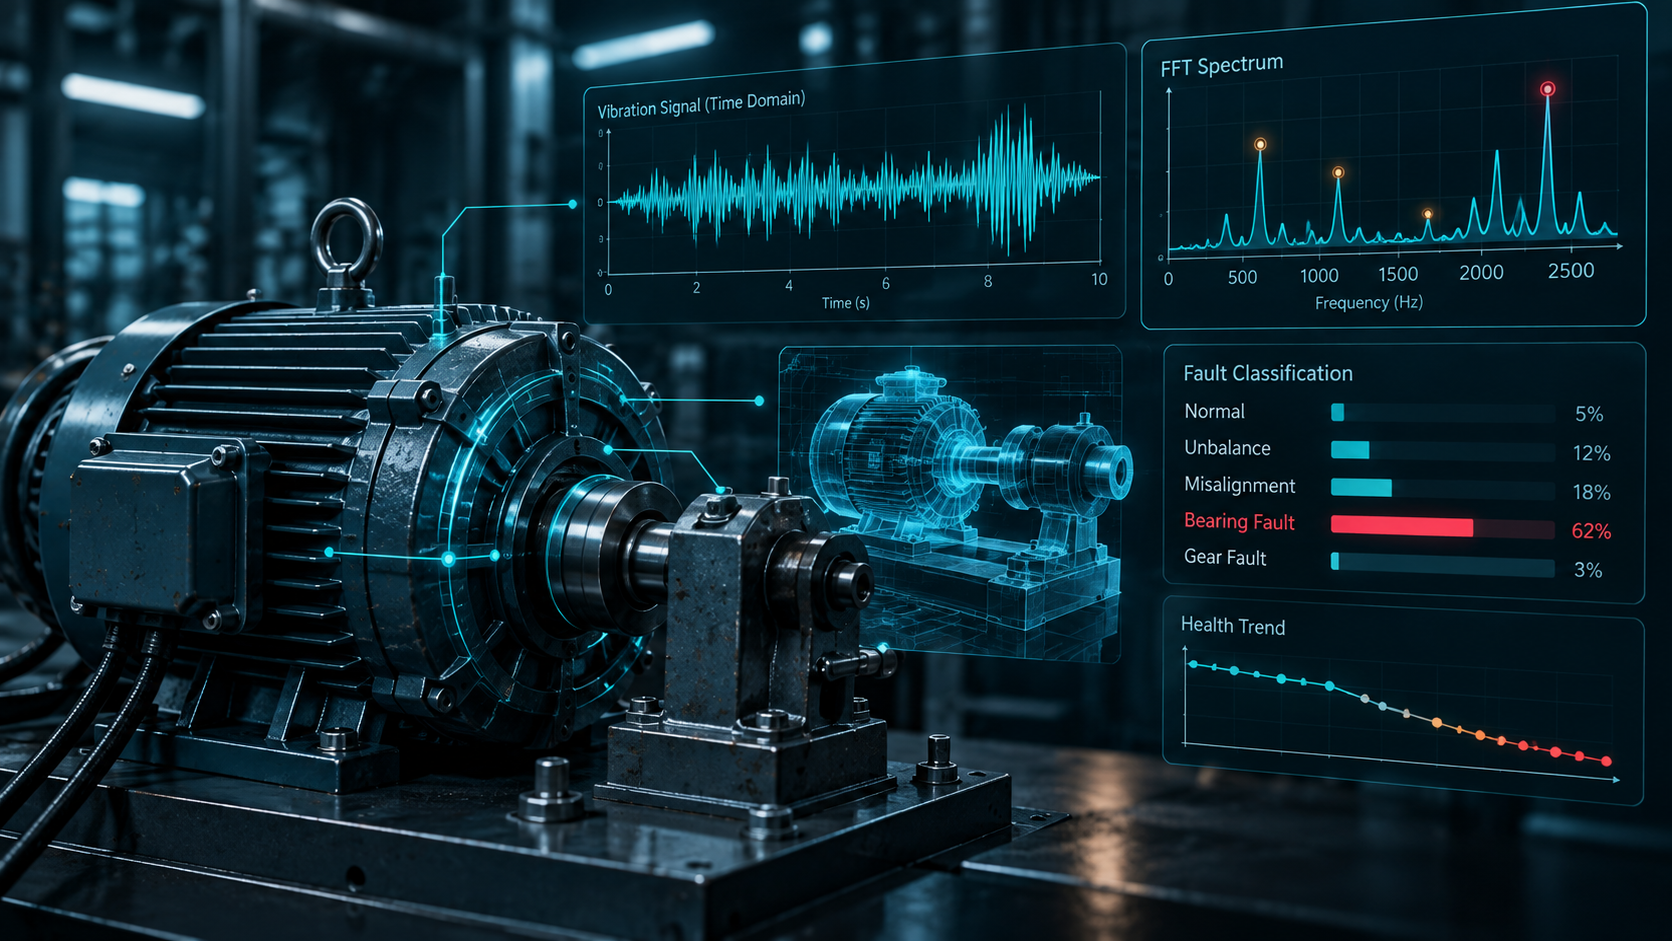
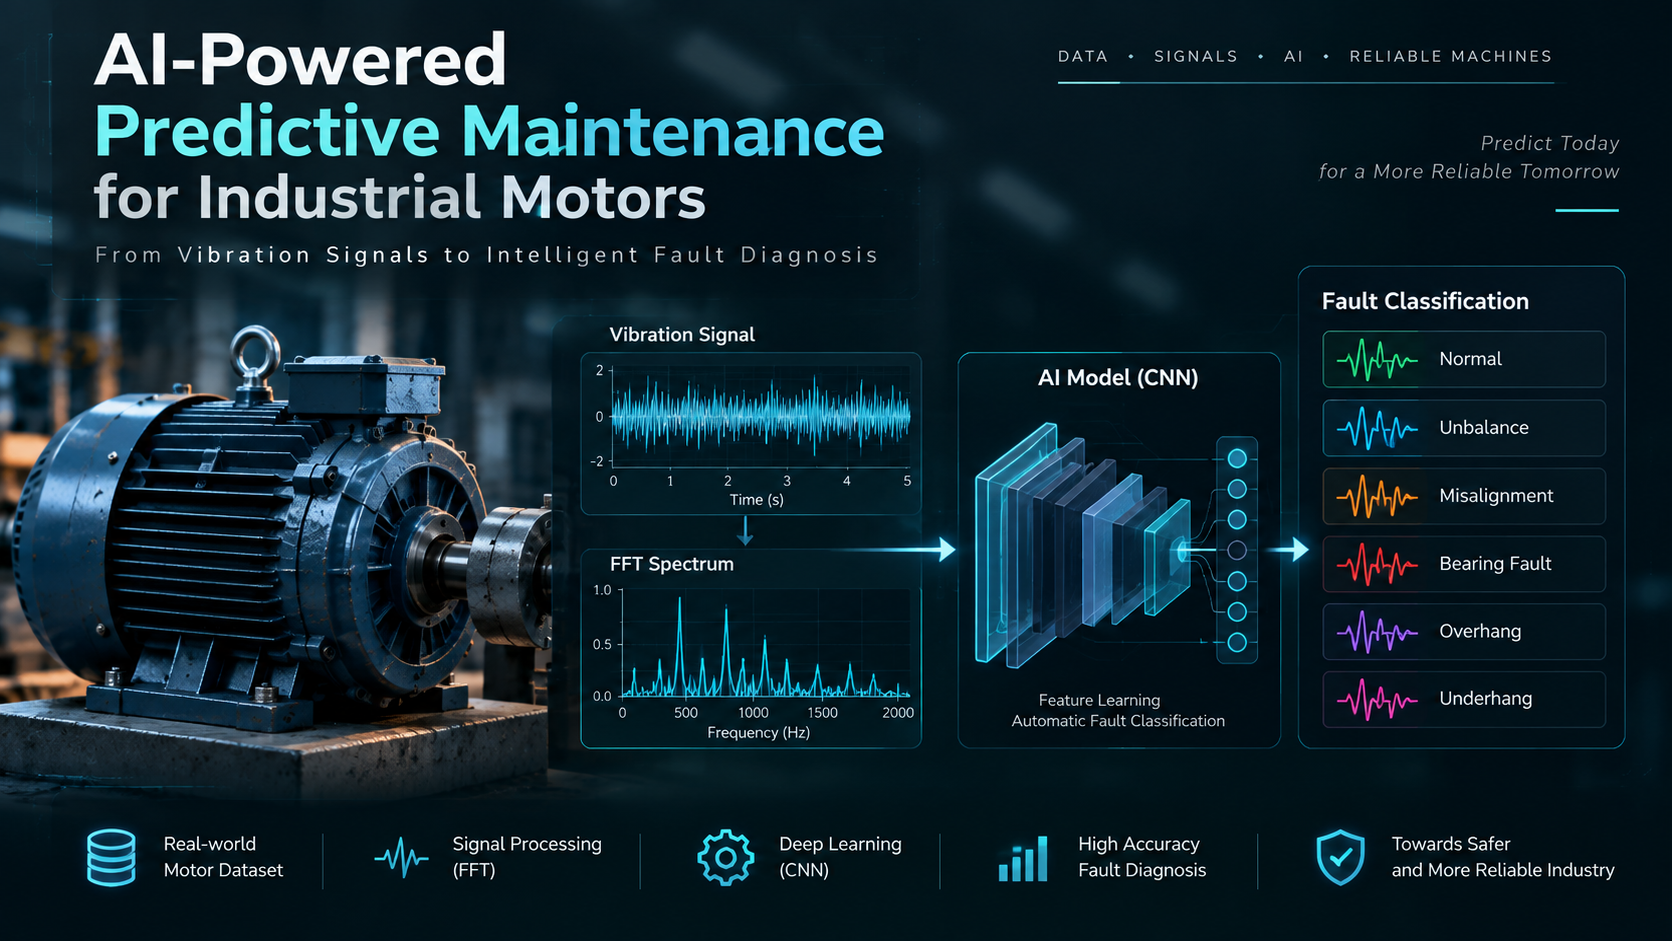
Update predictive maintenance cover

diff --git a/assets/style.css b/assets/style.css
@@ -2229,13 +2229,14 @@ h1{
 }
 
 
-/* Cover */
+/* =========================================
+   Predictive Maintenance — Cover
+========================================= */
 
 .predictive-case-head .predictive-cover{
     width:100%;
     height:auto;
-
-    aspect-ratio:16 / 7;
+    min-height:0;
 
     overflow:hidden;
 
@@ -2247,11 +2248,11 @@ h1{
 
 .predictive-case-head .predictive-cover img{
     width:100%;
-    height:100%;
+    height:auto;
 
     display:block;
 
-    object-fit:cover;
+    object-fit:contain;
     object-position:center;
 }
 
